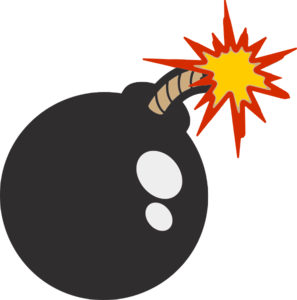
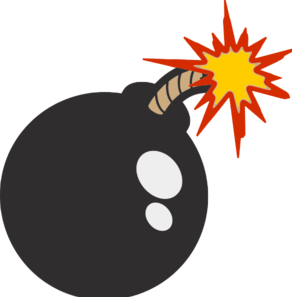
Retouched bomb class

diff --git a/Laser.java b/Laser.java
@@ -1,60 +1,60 @@
-import greenfoot.*;  // (World, Actor, GreenfootImage, Greenfoot and MouseInfo)
-
-/**
- * Write a description of class Laser here.
- * 
- * @author (your name) 
- * @version (a version number or a date)
- */
-public class Laser extends Actor
-{
+    import greenfoot.*;  // (World, Actor, GreenfootImage, Greenfoot and MouseInfo)
+    
     /**
-     * Act - do whatever the Laser wants to do. This method is called whenever
-     * the 'Act' or 'Run' button gets pressed in the environment.
+     * Write a description of class Laser here.
+     * 
+     * @author (your name) 
+     * @version (a version number or a date)
      */
-    
-    public static int atk = 1;
-    GreenfootSound explosion = new GreenfootSound("explosion.mp3");
-    
-    public Laser()
+    public class Laser extends Actor
     {
-        GreenfootImage laser = getImage();
-        setRotation(270);
-        laser.scale(50, 20);
-    }
-    
-    public void act()
-    {
-        moveLaser();
-        timer();
+        /**
+         * Act - do whatever the Laser wants to do. This method is called whenever
+         * the 'Act' or 'Run' button gets pressed in the environment.
+         */
         
-        if(isTouching(Bomb.class))
+        public static int atk = 1;
+        GreenfootSound explosion = new GreenfootSound("explosion.mp3");
+        
+        public Laser()
         {
-            explosion.play();
-            Greenfoot.setWorld(new EndScreen());
+            GreenfootImage laser = getImage();
+            setRotation(270);
+            laser.scale(50, 20);
         }
         
-        if (getY() == 0)
+        public void act()
         {
-            getWorld().removeObject(this);
-        }
-    }
-      
-    public void moveLaser()
-    {
-        setLocation(getX(), getY() - 10);
-    }
-    
-
-    public void timer()
-    {
-        if (Buff1.timer > 0)
-        {
-            Buff1.timer--;
-            if(Buff1.timer == 0)
+            moveLaser();
+            timer();
+            
+            if(isTouching(Bomb.class))
             {
-                atk--;
+                explosion.play();
+                Greenfoot.setWorld(new EndScreen());
+            }
+            
+            if (getY() == 0)
+            {
+                getWorld().removeObject(this);
+            }
+        }
+          
+        public void moveLaser()
+        {
+            setLocation(getX(), getY() - 10);
+        }
+        
+    
+        public void timer()
+        {
+            if (Buff1.timer > 0)
+            {
+                Buff1.timer--;
+                if(Buff1.timer == 0)
+                {
+                    atk--;
+                }
             }
         }
     }
-}

diff --git a/MyWorld.java b/MyWorld.java
@@ -14,6 +14,9 @@ public class MyWorld extends World
     private static int spawnCounter = 0;
     private static int spawnInterval = Greenfoot.getRandomNumber(600) + 400;
     
+    public int score = 0;
+    Label scoreLabel;
+    
     private int bombSpawnCounter = 0;
     private int bombSpawnInterval = Greenfoot.getRandomNumber(300) + 300;
     
@@ -29,13 +32,6 @@ public class MyWorld extends World
         addObject(timerLabel, 470,50);
         createM();
         createBuff();
-        
-        int numBombs = 1+ Greenfoot.getRandomNumber(2);
-        for(int i = 0; i < numBombs; i++)
-        {
-            createBomb();
-        }
-
     }
     
     public void act()
@@ -136,4 +132,6 @@ public class MyWorld extends World
         int y = 0;
         addObject(bomb, x, y);
     }
+
 }
+

diff --git a/Bomb.java b/Bomb.java
@@ -13,12 +13,12 @@ public class Bomb extends Actor
      * the 'Act' or 'Run' button gets pressed in the environment.
      */
     GreenfootSound explosion = new GreenfootSound("explosion.mp3");
-    int speed = 1;
+    int speed = 4;
     public void act()
     {
         // Add your action code here.
         GreenfootImage bombImage = getImage();
-        bombImage.scale(90, 90);
+        bombImage.scale(50, 50);
         
         setLocation(getX(), getY() + 1);
         

diff --git a/Metro.java b/Metro.java
@@ -8,9 +8,6 @@ import greenfoot.*;  // (World, Actor, GreenfootImage, Greenfoot and MouseInfo)
  */
 public class Metro extends Actor
 {
-    public Metro() {
-        //setImage("images/metro.png");
-    }
     private int hp = 2;
 
     public void act()

diff --git a/Ship.java b/Ship.java
@@ -15,7 +15,7 @@ public class Ship extends Actor
     public Ship()
     {
         GreenfootImage shipImage = getImage();
-        shipImage.scale(120, 120);
+        shipImage.scale(100, 110);
     }
     
     public void act()
